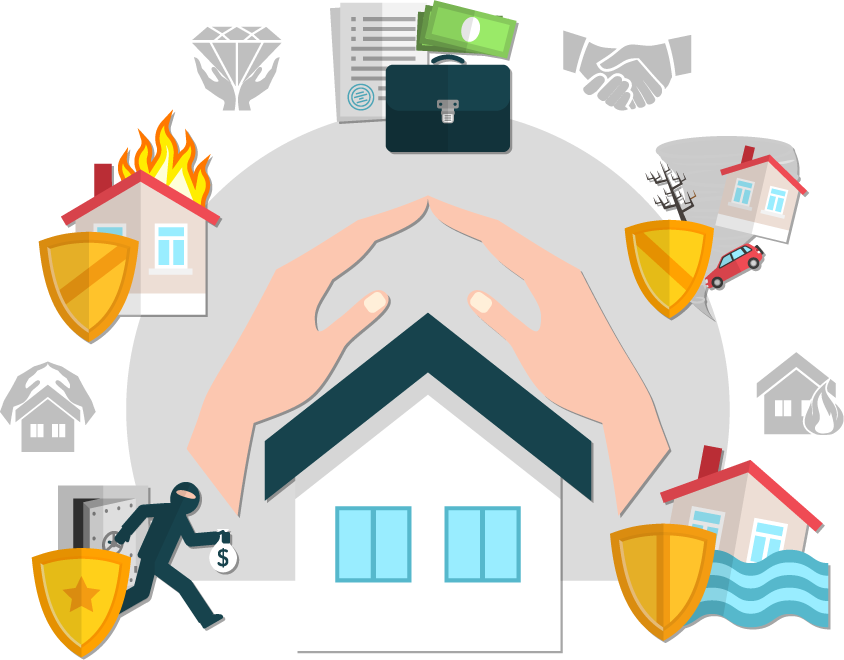
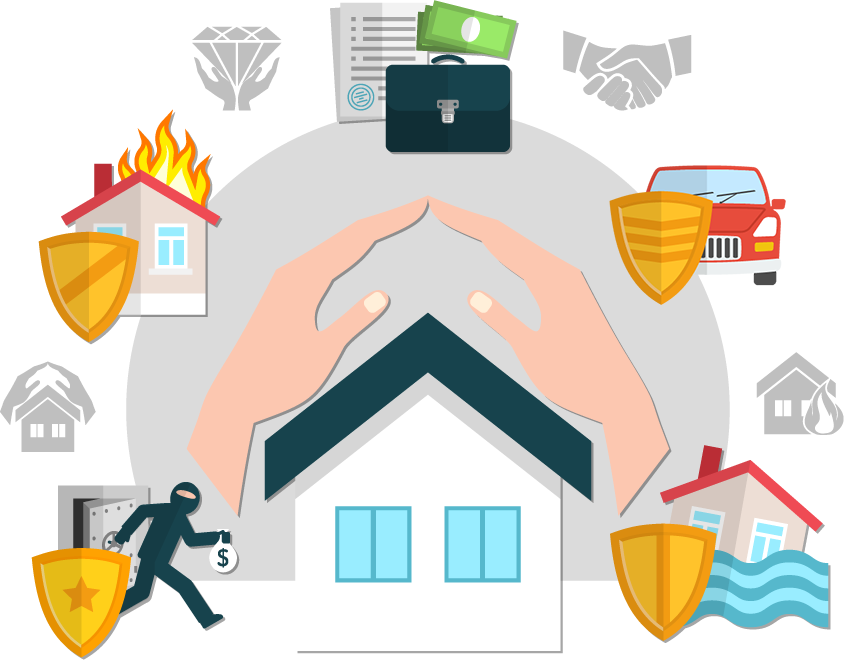
update, cleaning

Changed region(s): [[0.7085, 0.1818, 0.955, 0.4848]]

diff --git a/src/sass/_banner.scss b/src/sass/_banner.scss
@@ -4,7 +4,7 @@
     max-width: 1160px;
     margin: 138px auto 160px;
     padding: $S;
-    background: url("img/hero2.png") center no-repeat;
+    background: url("img/hero.png") center no-repeat;
     background-size: contain;
 
     @media only screen and (min-width: $tablet) {

diff --git a/src/sass/_about.scss b/src/sass/_about.scss
@@ -7,7 +7,7 @@
   &__image {
     height: 160px;
     display: block;
-    margin: 0 auto 60px;
+    margin: 0 auto $S;
 
     @media screen and (min-width: $tablet) {
       margin: 60px auto;

diff --git a/src/front-page.php b/src/front-page.php
@@ -4,115 +4,113 @@
     <?php $the_query = new WP_Query(array('posts_per_page' => 1)); ?>
 
     <?php while ( $the_query->have_posts() ) : $the_query->the_post(); ?>
-    <div class="banner__news">
-        <div class="banner__inner-news">
-            <h3><?php the_title(); ?></h3>
-            <p><?php echo wp_trim_words(get_the_content(), 10, '...'); ?></p>
-            <a class="banner__link" href="<?php the_permalink(); ?>" alt="<?php the_title_attribute(); ?>">Czytaj więcej »</a>
+        <div class="banner__news">
+            <div class="banner__inner-news">
+                <h3><?php the_title(); ?></h3>
+                <p><?php echo wp_trim_words(get_the_content(), 10, '...'); ?></p>
+                <a class="banner__link" href="<?php the_permalink(); ?>" alt="<?php the_title_attribute(); ?>">Czytaj więcej »</a>
+            </div>
         </div>
-    </div>
 
     <?php endwhile; ?>
     <?php wp_reset_postdata(); ?>
 </div>
 
 <section class="offer">
-  <div class="container">
-    <h2 class="main center">W naszej ofercie posiadamy:</h2>
-    <div class="row">
-      <div class="col-md-4">
-        <a class="card__item card__item" href="/ubezpieczenie-komunikacyjne">
-          <img class="card__image"
-               src="/wp-content/themes/grzybowski/img/1.png"
-               alt="Ubezpieczenie komunikacyjne">
-          <div class="card__content">
-            <h3 class="card__header">Ubezpieczenia komunikacyjne</h3>
-            <p class="card__text">
-              Ubezpieczenie komunikacyjne to ubezpieczenie obejmujące samochody osobowe, ciężarowe, dostawcze, autobusy, mikrobusy, samochody specjalne, motocykle, motorowery, quady, ciągniki rolnicze, pojazdy wolnobieżne oraz inne pojazdy drogowe poruszające się po drogach publicznych.
-            </p>
-            <span class="card__link">Zapoznaj się z ofertą</span>
-          </div>
-        </a>
-      </div>
-      <div class="col-md-4">
-        <a class="card__item card__item--right" href="/ubezpieczenie-majatkowe-mieszkaniowe">
-          <img class="card__image" src="/wp-content/themes/grzybowski/img/2.png" alt="Ubezpieczenie mieszkaniowe">
+    <div class="container">
+        <h2 class="main center">W naszej ofercie posiadamy:</h2>
+        <div class="row">
+            <div class="col-md-4">
+                <a class="card__item card__item" href="/ubezpieczenie-komunikacyjne">
+                    <img class="card__image" src="/wp-content/themes/grzybowski/img/ikona-samochod.png" alt="Ubezpieczenie komunikacyjne">
+                    <div class="card__content">
+                        <h3 class="card__header">Ubezpieczenia komunikacyjne</h3>
+                        <p class="card__text">
+                            Ubezpieczenie komunikacyjne to ubezpieczenie obejmujące samochody osobowe, ciężarowe, dostawcze, autobusy, mikrobusy, samochody specjalne, motocykle, motorowery, quady, ciągniki rolnicze, pojazdy wolnobieżne oraz inne pojazdy drogowe poruszające się po drogach publicznych.
+                        </p>
+                        <span class="card__link">Zapoznaj się z ofertą</span>
+                    </div>
+                </a>
+            </div>
+            <div class="col-md-4">
+                <a class="card__item card__item--right" href="/ubezpieczenie-domow-mieszkan">
+                    <img class="card__image" src="/wp-content/themes/grzybowski/img/ikona-dom.png" alt="Ubezpieczenie mieszkaniowe">
 
-          <div class="card__content card__content--right">
-            <h3 class="card__header">Ubezpieczenia domów i mieszkań</h3>
-            <p class="card__text">Ubezpieczenie budynków i lokali mieszkalnych obejmuje następujące rodzaje mienia:
-              dom jednorodzinny,
-              lokal mieszkalny lub jego stałe elementy,
-              dom letniskowy,
-              dom w budowie
-              garaż lub inny budynek,
-              budowle i obiekty małej architektury (ogrodzenie, altana),
-              oraz ruchomości domowe.</p>
-            <span class="card__link">Zapoznaj się z ofertą</span>
-          </div>
-        </a>
-      </div>
-      <div class="col-md-4">
-        <a class="card__item" href="/ubezpieczenie-turystyczne">
-          <img class="card__image" src="/wp-content/themes/grzybowski/img/3b.png" alt="ubezpieczenie turystyczne">
-          <div class="card__content">
-            <h3 class="card__header">Ubezpieczenia turystyczne</h3>
-            <p class="card__text">Ubezpieczenie turystyczne przeznaczone jest dla osób podróżujących prywatnie jak też służbowo za granicę oraz w Polsce. Zapewnia przede wszystkim organizację i pokrycie kosztów leczenia ambulatoryjnego i szpitalnego w razie choroby, bądź wypadku.</p>
-            <span class="card__link">Zapoznaj się z ofertą</span>
-          </div>
-        </a>
-      </div>
-      <div class="col-md-4">
-        <a class="card__item card__item--right" href="/ubezpieczenie-zdrowotne">
-          <img class="card__image" src="/wp-content/themes/grzybowski/img/4.png" alt="Ubezpieczenie zdrowotne">
+                    <div class="card__content card__content--right">
+                        <h3 class="card__header">Ubezpieczenia mieszkaniowe</h3>
+                        <p class="card__text">Ubezpieczenie budynków i lokali mieszkalnych obejmuje następujące rodzaje mienia:
+                            dom jednorodzinny,
+                            lokal mieszkalny lub jego stałe elementy,
+                            dom letniskowy,
+                            dom w budowie
+                            garaż lub inny budynek,
+                            budowle i obiekty małej architektury (ogrodzenie, altana),
+                            oraz ruchomości domowe.</p>
+                        <span class="card__link">Zapoznaj się z ofertą</span>
+                    </div>
+                </a>
+            </div>
+            <div class="col-md-4">
+                <a class="card__item" href="/ubezpieczenie-turystyczne">
+                    <img class="card__image" src="/wp-content/themes/grzybowski/img/ikona-samolot.png" alt="Ubezpieczenie turystyczne">
+                    <div class="card__content">
+                        <h3 class="card__header">Ubezpieczenia turystyczne</h3>
+                        <p class="card__text">Ubezpieczenie turystyczne przeznaczone jest dla osób podróżujących prywatnie jak też służbowo za granicę oraz w Polsce. Zapewnia przede wszystkim organizację i pokrycie kosztów leczenia ambulatoryjnego i szpitalnego w razie choroby, bądź wypadku.</p>
+                        <span class="card__link">Zapoznaj się z ofertą</span>
+                    </div>
+                </a>
+            </div>
+            <div class="col-md-4">
+                <a class="card__item card__item--right" href="/ubezpieczenie-zdrowotne">
+                    <img class="card__image" src="/wp-content/themes/grzybowski/img/ikona-apteczka.png" alt="Ubezpieczenie zdrowotne">
 
-          <div class="card__content card__content--right">
-            <h3 class="card__header">Ubezpieczenia zdrowotne</h3>
-            <p class="card__text">Ubezpieczenie zdrowotne nazywane też ubezpieczeniem medycznym zapewnia dostęp do bardzo szerokiego zakresu usług i świadczeń medycznych, które są realizowane w placówkach medycznych o wysokiej renomie.</p>
-            <span class="card__link">Zapoznaj się z ofertą</span>
-          </div>
-        </a>
-      </div>
+                    <div class="card__content card__content--right">
+                        <h3 class="card__header">Ubezpieczenia zdrowotne</h3>
+                        <p class="card__text">Ubezpieczenie zdrowotne nazywane też ubezpieczeniem medycznym zapewnia dostęp do bardzo szerokiego zakresu usług i świadczeń medycznych, które są realizowane w placówkach medycznych o wysokiej renomie.</p>
+                        <span class="card__link">Zapoznaj się z ofertą</span>
+                    </div>
+                </a>
+            </div>
 
-      <div class="col-md-4">
-        <a class="card__item" href="/ubezpieczenie-na-zycie">
-          <img class="card__image" src="/wp-content/themes/grzybowski/img/5.png" alt="Ubezpieczenie na życie">
-          <div class="card__content">
-            <h3 class="card__header">Ubezpieczenia na życie</h3>
-            <p class="card__text">Zawierając umowę ubezpieczenia na życie są Państwo chronieni na wypadek wielu przykrych zdarzeń związanych z życiem i zdrowiem. Głównym celem ubezpieczenia na życie jest wypłata świadczenia, ale może to być także gromadzenie lub inwestowanie części wpłacanej składki.</p>
-            <span class="card__link">Zapoznaj się z ofertą</span>
-          </div>
-        </a>
-      </div>
+            <div class="col-md-4">
+                <a class="card__item" href="/ubezpieczenie-na-zycie">
+                    <img class="card__image" src="/wp-content/themes/grzybowski/img/ikona-rodzina.png" alt="Ubezpieczenie na życie">
+                    <div class="card__content">
+                        <h3 class="card__header">Ubezpieczenia na życie</h3>
+                        <p class="card__text">Zawierając umowę ubezpieczenia na życie są Państwo chronieni na wypadek wielu przykrych zdarzeń związanych z życiem i zdrowiem. Głównym celem ubezpieczenia na życie jest wypłata świadczenia, ale może to być także gromadzenie lub inwestowanie części wpłacanej składki.</p>
+                        <span class="card__link">Zapoznaj się z ofertą</span>
+                    </div>
+                </a>
+            </div>
 
-      <div class="col-md-4">
-        <a class="card__item card__item--right" href="/ubezpieczenie-nnw">
-          <img class="card__image" src="/wp-content/themes/grzybowski/img/6.png" alt="Ubezpieczenie NNW (wypadkowe)">
+            <div class="col-md-4">
+                <a class="card__item card__item--right" href="/ubezpieczenie-nnw">
+                    <img class="card__image" src="/wp-content/themes/grzybowski/img/ikona-wypadek.png" alt="Ubezpieczenie NNW">
 
-          <div class="card__content card__content--right">
-            <h3 class="card__header">Ubezpieczenia NNW (wypadkowe)</h3>
-            <p class="card__text">Ubezpieczenie NNW zapewnia ochronę przed skutkami nieszczęśliwych zdarzeń w życiu codziennym i w pracy. Szeroki zakres ubezpieczenia umożliwia dopasowanie ochrony do potrzeb ubezpieczonego, na całym świecie i przez całą dobę.</p>
-            <span class="card__link">Zapoznaj się z ofertą</span>
-          </div>
-        </a>
-      </div>
-    </div>
-    <div class="row">
-      <div class="col">
-        <div class="card__item card__item--basic card__item--vertical">
-          <p>W ofercie posiadamy również inne rodzaje ubezpieczeń – napisz do nas lub zadzwoń, by dowiedzieć się więcej. Zapraszamy także do naszych placówek w Wołominie, Ząbkach oraz Kobyłce.</p>
-          <a class="button--limited button" href="/kontakt">Skontaktuj się z nami!</a>
+                    <div class="card__content card__content--right">
+                        <h3 class="card__header">Ubezpieczenia NNW</h3>
+                        <p class="card__text">Ubezpieczenie NNW zapewnia ochronę przed skutkami nieszczęśliwych zdarzeń w życiu codziennym i w pracy. Szeroki zakres ubezpieczenia umożliwia dopasowanie ochrony do potrzeb ubezpieczonego, na całym świecie i przez całą dobę.</p>
+                        <span class="card__link">Zapoznaj się z ofertą</span>
+                    </div>
+                </a>
+            </div>
         </div>
-      </div>
+        <div class="row">
+            <div class="col">
+                <div class="card__item card__item--basic card__item--vertical">
+                    <p>W ofercie posiadamy również inne rodzaje ubezpieczeń – napisz do nas lub zadzwoń, by dowiedzieć się więcej. Zapraszamy także do naszych placówek w Wołominie, Ząbkach oraz Kobyłce.</p>
+                    <a class="button--limited button" href="/kontakt">Skontaktuj się z nami!</a>
+                </div>
+            </div>
+        </div>
     </div>
-  </div>
 </section>
 
 <section class="about">
     <div class="container">
         <div class="row">
             <div class="col-sm-4">
-                <img class="about__image" alt="J. Grzybowski - Ubezpieczenia" src="/wp-content/themes/grzybowski/img/o.png" alt="J. Grzybowski - Ubezpieczenia">
+                <img class="about__image" src="/wp-content/themes/grzybowski/img/ikona-garnitur.png" alt="Agencja J. Grzybowski – Ubezpieczenia">
             </div>
             <div class="col-sm-8">
                 <div class="about__content">
@@ -129,13 +127,13 @@
         <div class="row row--reversed">
             <div class="col-sm-8">
                 <div class="about__content">
-                    <h2>Pliki do pobrania</h2>
-                    <p>Jeżeli potrzebują Państwo wydrukować lub zapoznać się z wszelkiego rodzaju dokumentami ubezpieczeniowymi, można je pobrać z naszej strony internetowej.</p>
-                    <a class="about__button button" href="/pliki-do-pobrania">Zobacz pliki</a>
+                    <h2>Dokumenty do pobrania</h2>
+                    <p>Jeżeli potrzebują Państwo wydrukować lub zapoznać się z różnego rodzaju dokumentami ubezpieczeniowymi, można je pobrać z naszej strony internetowej.</p>
+                    <a class="about__button button" href="/dokumenty-do-pobrania">Zobacz pliki</a>
                 </div>
             </div>
             <div class="col-sm-4">
-                <img class="about__image" alt="J. Grzybowski - Ubezpieczenia" src="/wp-content/themes/grzybowski/img/pliki.png" alt="J. Grzybowski - Ubezpieczenia">
+                <img class="about__image" src="/wp-content/themes/grzybowski/img/ikona-dokumenty.png" alt="Dokumenty ubezpieczeniowe i inne pliki do pobrania">
             </div>
         </div>
 </section>
@@ -148,31 +146,31 @@
                 <h2 class="partners__header">Współpracujemy między innymi z:</h2>
                 <div class="partners__logos">
                     <img class="partners__logo partners__logo--big" alt="PZU - ubezpieczenia"
-                         src="/wp-content/themes/grzybowski/img/pzu.svg">
+                         src="/wp-content/themes/grzybowski/img/logo-pzu.svg">
                     <img class="partners__logo partners__logo--small" alt="Warta - ubezpieczenia"
-                         src="/wp-content/themes/grzybowski/img/warta.webp">
+                         src="/wp-content/themes/grzybowski/img/logo-warta.jpg">
                     <img class="partners__logo partners__logo--big" alt="HDI - ubezpieczenia"
-                         src="/wp-content/themes/grzybowski/img/hdi.svg">
+                         src="/wp-content/themes/grzybowski/img/logo-hdi.svg">
                     <img class="partners__logo partners__logo--big" alt="Generali - ubezpieczenia"
-                         src="/wp-content/themes/grzybowski/img/generali.svg">
+                         src="/wp-content/themes/grzybowski/img/logo-generali.svg">
                     <img class="partners__logo partners__logo--big" alt="Proama - ubezpieczenia"
-                         src="/wp-content/themes/grzybowski/img/proama.webp">
+                         src="/wp-content/themes/grzybowski/img/logo-proama.png">
                     <img class="partners__logo partners__logo--big" alt="Ergo Hestia - ubezpieczenia"
-                         src="/wp-content/themes/grzybowski/img/ergo-hestia.webp">
+                         src="/wp-content/themes/grzybowski/img/logo-ergo-hestia.jpg">
                     <img class="partners__logo partners__logo--big" alt="InterRisk - ubezpieczenia"
-                         src="/wp-content/themes/grzybowski/img/inter-risk.webp">
+                         src="/wp-content/themes/grzybowski/img/logo-inter-risk.png">
                     <img class="partners__logo partners__logo--medium" alt="Compensa - Vienna Insurance Group - ubezpieczenia"
-                         src="/wp-content/themes/grzybowski/img/compensa.svg">
+                         src="/wp-content/themes/grzybowski/img/logo-compensa.svg">
                     <img class="partners__logo partners__logo--big" alt="Wiener - ubezpieczenia"
-                         src="/wp-content/themes/grzybowski/img/wiener.png">
+                         src="/wp-content/themes/grzybowski/img/logo-wiener.png">
                     <img class="partners__logo partners__logo--big" alt="AXA - ubezpieczenia"
-                         src="/wp-content/themes/grzybowski/img/axa.svg">
+                         src="/wp-content/themes/grzybowski/img/logo-axa.svg">
                     <img class="partners__logo partners__logo--big" alt="TUW - ubezpieczenia"
-                         src="/wp-content/themes/grzybowski/img/tuw-tuw.webp">
+                         src="/wp-content/themes/grzybowski/img/logo-tuw-tuw.png">
                     <img class="partners__logo partners__logo--big" alt="TUZ - ubezpieczenia"
-                         src="/wp-content/themes/grzybowski/img/tuw-tuz.webp">
+                         src="/wp-content/themes/grzybowski/img/logo-tuw-tuz.png">
                     <img class="partners__logo partners__logo--medium" alt="Link4 - ubezpieczenia"
-                         src="/wp-content/themes/grzybowski/img/link4.svg">
+                         src="/wp-content/themes/grzybowski/img/logo-link4.svg">
                 </div>
             </div>
         </div>

diff --git a/src/footer.php b/src/footer.php
@@ -1,6 +1,5 @@
 </main>
 
-
 <footer id="footer" class="footer">
     <div class="container">
         <div class="row">
@@ -9,17 +8,17 @@
                 <p>
                     <a href="/o-nas" class="footer__link">Agencja Ubezpieczeniowa J. Grzybowski</a><br>
                     <a href="/ubezpieczenie-komunikacyjne" class="footer__link">Ubezpieczenia komunikacyjne (ubezpieczenie OC, NNW, AC)</a><br>
-                    <a href="/ubezpieczenie-majatkowe-mieszkaniowe" class="footer__link">Ubezpieczenia mieszkaniowe</a><br>
+                    <a href="/ubezpieczenie-domow-mieszkan" class="footer__link">Ubezpieczenia mieszkaniowe</a><br>
                     <a href="/ubezpieczenie-turystyczne" class="footer__link">Ubezpieczenia turystyczne (podróżne)</a><br>
                     <a href="/ubezpieczenie-zdrowotne" class="footer__link">Ubezpieczenia zdrowotne</a><br>
                     <a href="/ubezpieczenie-na-zycie" class="footer__link">Ubezpieczenia na życie</a><br>
-                    <a href="/ubezpieczenie-nnw" class="footer__link">Ubezpieczenia szkolne NNW</a>
+                    <a href="/ubezpieczenie-nnw" class="footer__link">Ubezpieczenia NNW (wypadkowe)</a>
                 </p>
 
                 <h5 class="footer__title--next">Dodatkowe informacje i dokumenty</h5>
                 <p>
                     <a href="/polityka-prywatnosci" class="footer__link">Polityka prywatności</a><br>
-                    <a href="/pliki-do-pobrania" class="footer__link">Dokumenty do pobrania</a>
+                    <a href="/dokumenty-do-pobrania" class="footer__link">Dokumenty do pobrania</a>
                 </p>
             </div>
 
@@ -63,7 +62,7 @@
 </footer>
 
 <div class="cookies">
-    <p class="cookies__text">Strona korzysta z plików cookie. Warunki przechowywania oraz dostępu plików cookie możesz samodzielnie okreslić w swojej przeglądarce.</p>
+    <p class="cookies__text">Strona korzysta z plików cookie. Warunki przechowywania oraz dostępu plików cookie możesz samodzielnie określić w swojej przeglądarce.</p>
     <div class="button cookies__close">Nie pokazuj</div>
 </div>
 

diff --git a/src/functions.php b/src/functions.php
@@ -8,6 +8,7 @@ function remove_shit(){
     wp_dequeue_style( 'contact-form-7' );
 }
 
+
 add_action('init', function() {
     remove_action('rest_api_init', 'wp_oembed_register_route');
     remove_filter('oembed_dataparse', 'wp_filter_oembed_result', 10);
@@ -20,18 +21,10 @@ add_action('init', function() {
     remove_action('admin_print_styles', 'print_emoji_styles');
 }, PHP_INT_MAX - 1 );
 
-
-
-
-
-
 /*function add_google_fonts() {
     wp_enqueue_style('google_web_fonts', 'https://fonts.googleapis.com/css?family=Raleway:400,500');
 }
 add_action( 'wp_enqueue_scripts', 'add_google_fonts' );*/
-
-
-
 
 
 add_action( 'after_setup_theme', 'grzybowscy_setup' );
@@ -47,7 +40,6 @@ function grzybowscy_setup() {
 }
 
 
-
 function nav_menu_attributes_filter($var) {
     return is_array($var) ? array_intersect($var, array('current_page_item', 'current-menu-ancestor', 'current_page_parent')) : '';
 }
@@ -56,16 +48,10 @@ add_filter('nav_menu_item_id', 'nav_menu_attributes_filter', 100, 1);
 add_filter('page_css_class', 'nav_menu_attributes_filter', 100, 1);
 
 
-
-
-
 add_filter( 'document_title_separator', 'cyb_document_title_separator' );
 function cyb_document_title_separator( $sep ) {
     return "|";
 }
-
-
-
 
 
 add_filter( 'the_title', 'grzybowscy_title' );
@@ -77,10 +63,12 @@ function grzybowscy_title( $title ) {
     }
 }
 
+
 add_filter( 'wp_title', 'grzybowscy_filter_wp_title' );
 function grzybowscy_filter_wp_title( $title ) {
     return $title . esc_attr( get_bloginfo( 'name' ) );
 }
+
 
 add_action( 'widgets_init', 'widgets_init' );
 function widgets_init() {

diff --git a/src/header.php b/src/header.php
@@ -112,8 +112,8 @@
 
     <div class="header__middle">
         <div class="header__container container">
-            <a href="/" title="J. Grzybowski – Agencja Ubezpieczeniowa">
-                <img class="header__logo" alt="Janusz Grzybowski - ubezpieczenia - Wołomin, Ząbki, Warszawa" src="/wp-content/themes/grzybowski/img/logo2.jpg"/>
+            <a href="/" title="Agencja Ubezpieczeniowa J. Grzybowski">
+                <img class="header__logo" alt="Janusz Grzybowski - ubezpieczenia - Wołomin, Ząbki, Warszawa" src="/wp-content/themes/grzybowski/img/logo.jpg"/>
             </a>
             <nav class="header__nav-desktop">
                 <?php wp_nav_menu(array('theme_location' => 'nav-menu', 'container' => false)); ?>
